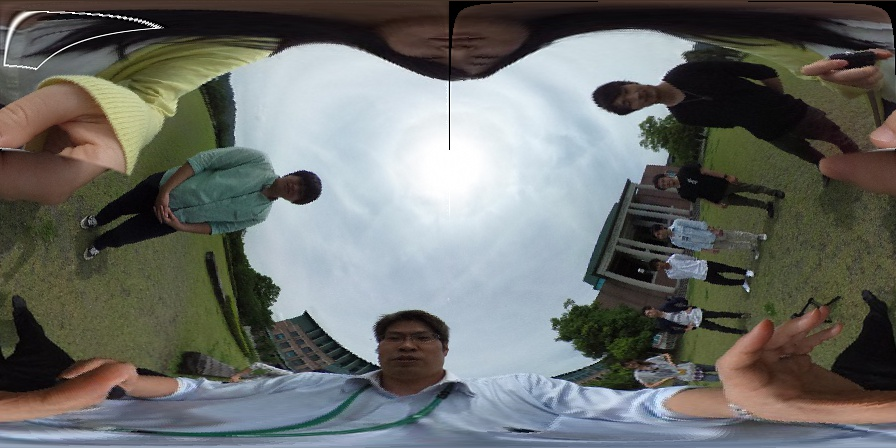
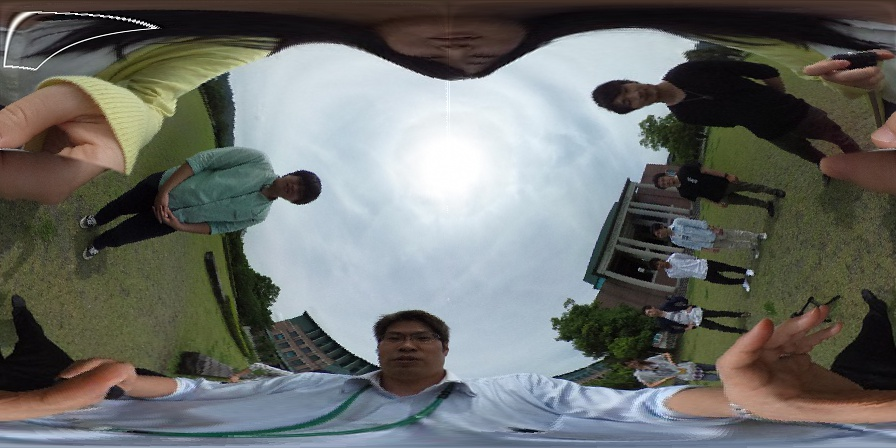
rerotate commit

diff --git a/sphere_rerotate.py b/sphere_rerotate.py
@@ -23,6 +23,8 @@ def sinc_h(t): #sinc関数
         return 0
 
 def byCubec(x, y):
+    result_rgb = np.array([0,0,0])
+
     if x < 0 or x >= width-1 or y < 0 or y >= height-1: #参照先が画像内でない
         return [ 0, 0, 0 ]
     x1 = 1 + x - int(x)
@@ -38,17 +40,22 @@ def byCubec(x, y):
     f_flag = [False]*4
 
     if x-x1 < 0:
-        f11 = f12 = f13 = f14 = black
+        matrix_hx = np.array([ sinc_h(x2), sinc_h(x3), sinc_h(x4) ])
         f_flag[0] = True
-    if x+x4 >= width:
-        f41 = f42 = f43 = f44 = black
+    elif x+x4 >= width:
+        matrix_hx = np.array([ sinc_h(x1), sinc_h(x2), sinc_h(x3) ])
         f_flag[1] = True
+    else:
+        matrix_hx = np.array([ sinc_h(x1), sinc_h(x2), sinc_h(x3), sinc_h(x4) ])
+
     if y+y1 >= height:
-        f11 = f21 = f31 = f41 = black
+        matrix_hy = np.array([ [sinc_h(y2)], [sinc_h(y3)], [sinc_h(y4)] ])
         f_flag[2] = True
-    if y-y4 < 0:
-        f14 = f24 = f34 = f44 = black
+    elif y-y4 < 0:
+        matrix_hy = np.array([ [sinc_h(y1)], [sinc_h(y2)], [sinc_h(y3)] ])
         f_flag[3] = True
+    else:
+        matrix_hy = np.array([ [sinc_h(y1)], [sinc_h(y2)], [sinc_h(y3)], [sinc_h(y4)] ])
 
     if f_flag[0] == False:
         if f_flag[2] == False:
@@ -75,19 +82,49 @@ def byCubec(x, y):
     f32 = img[y+y2][x+x3]
     f33 = img[y-y3][x+x3]
 
-
-    result_rgb = np.array([0,0,0])
-
     for i in range(3):
-        matrix_hx = np.array([ sinc_h(x1), sinc_h(x2), sinc_h(x3), sinc_h(x4) ])
-        matrix_f  = np.array([ [f11[i], f12[i], f13[i], f14[i]], \
-                      [f21[i], f22[i], f23[i], f24[i]], \
-                      [f31[i], f32[i], f33[i], f34[i]], \
-                      [f41[i], f42[i], f43[i], f44[i]] ])
-        matrix_hy = np.array([ [sinc_h(y1)], \
-                      [sinc_h(y2)], \
-                      [sinc_h(y3)], \
-                      [sinc_h(y4)] ])
+        if f_flag[0] == True:
+            if f_flag[2] == True:
+                matrix_f = np.array([ [f22[i], f23[i], f24[i]], \
+                                      [f32[i], f33[i], f34[i]], \
+                                      [f42[i], f43[i], f44[i]] ])
+
+            elif f_flag[3] == True:
+                matrix_f  = np.array([ [f21[i], f22[i], f23[i]], \
+                                       [f31[i], f32[i], f33[i]], \
+                                       [f41[i], f42[i], f43[i]] ])
+            else:
+                matrix_f  = np.array([ [f21[i], f22[i], f23[i], f24[i]], \
+                                       [f31[i], f32[i], f33[i], f34[i]], \
+                                       [f41[i], f42[i], f43[i], f44[i]] ])
+        elif f_flag[1] == True:
+            if f_flag[2] == True:
+                matrix_f  = np.array([ [f12[i], f13[i], f14[i]], \
+                                       [f22[i], f23[i], f24[i]], \
+                                       [f32[i], f33[i], f34[i]] ])
+            elif f_flag[3] == True:
+                matrix_f  = np.array([ [f11[i], f12[i], f13[i]], \
+                                       [f21[i], f22[i], f23[i]], \
+                                       [f31[i], f32[i], f33[i]] ])
+            else:
+                matrix_f  = np.array([ [f11[i], f12[i], f13[i], f14[i]], \
+                                       [f21[i], f22[i], f23[i], f24[i]], \
+                                       [f31[i], f32[i], f33[i], f34[i]] ])
+        elif f_flag[2] == True:
+            matrix_f  = np.array([ [f12[i], f13[i], f14[i]], \
+                                   [f22[i], f23[i], f24[i]], \
+                                   [f32[i], f33[i], f34[i]], \
+                                   [f42[i], f43[i], f44[i]] ])
+        elif f_flag[3] == True:
+            matrix_f  = np.array([ [f11[i], f12[i], f13[i]], \
+                                   [f21[i], f22[i], f23[i]], \
+                                   [f31[i], f32[i], f33[i]], \
+                                   [f41[i], f42[i], f43[i]] ])
+        else:
+            matrix_f  = np.array([ [f11[i], f12[i], f13[i], f14[i]], \
+                                   [f21[i], f22[i], f23[i], f24[i]], \
+                                   [f31[i], f32[i], f33[i], f34[i]], \
+                                   [f41[i], f42[i], f43[i], f44[i]] ])
 
         matrix_cube = matrix_hx.dot(matrix_f)
         matrix_cube = matrix_cube.dot(matrix_hy)
@@ -103,7 +140,7 @@ def byCubec(x, y):
 ### main
 if __name__ == "__main__":
     # get current positions of four trackbars
-    latitude  = -40
+    latitude  = -120
     longitude = 0
     angle     = 0
 
@@ -151,8 +188,12 @@ if __name__ == "__main__":
                 phi = 2 * math.pi + phi
 
             ## 円筒展開
-            cylinder_x = phi   * r # 経度 * 球体半径
-            cylinder_y = theta * r # 経度 * 球体半径
+            cylinder_x = (phi   * r) / width  * (width  - 1) # 経度 * 球体半径
+            cylinder_y = (theta * r) / height * (height - 1) # 経度 * 球体半径
+
+            if (cylinder_x >= width-1 and cylinder_x <= width+1) or \
+                (cylinder_y >= height-1 and cylinder_y <= height+1):
+                print (r, distance, theta, phi, cylinder_x, cylinder_y)
 
             rgb = byCubec(cylinder_x, cylinder_y)
 
